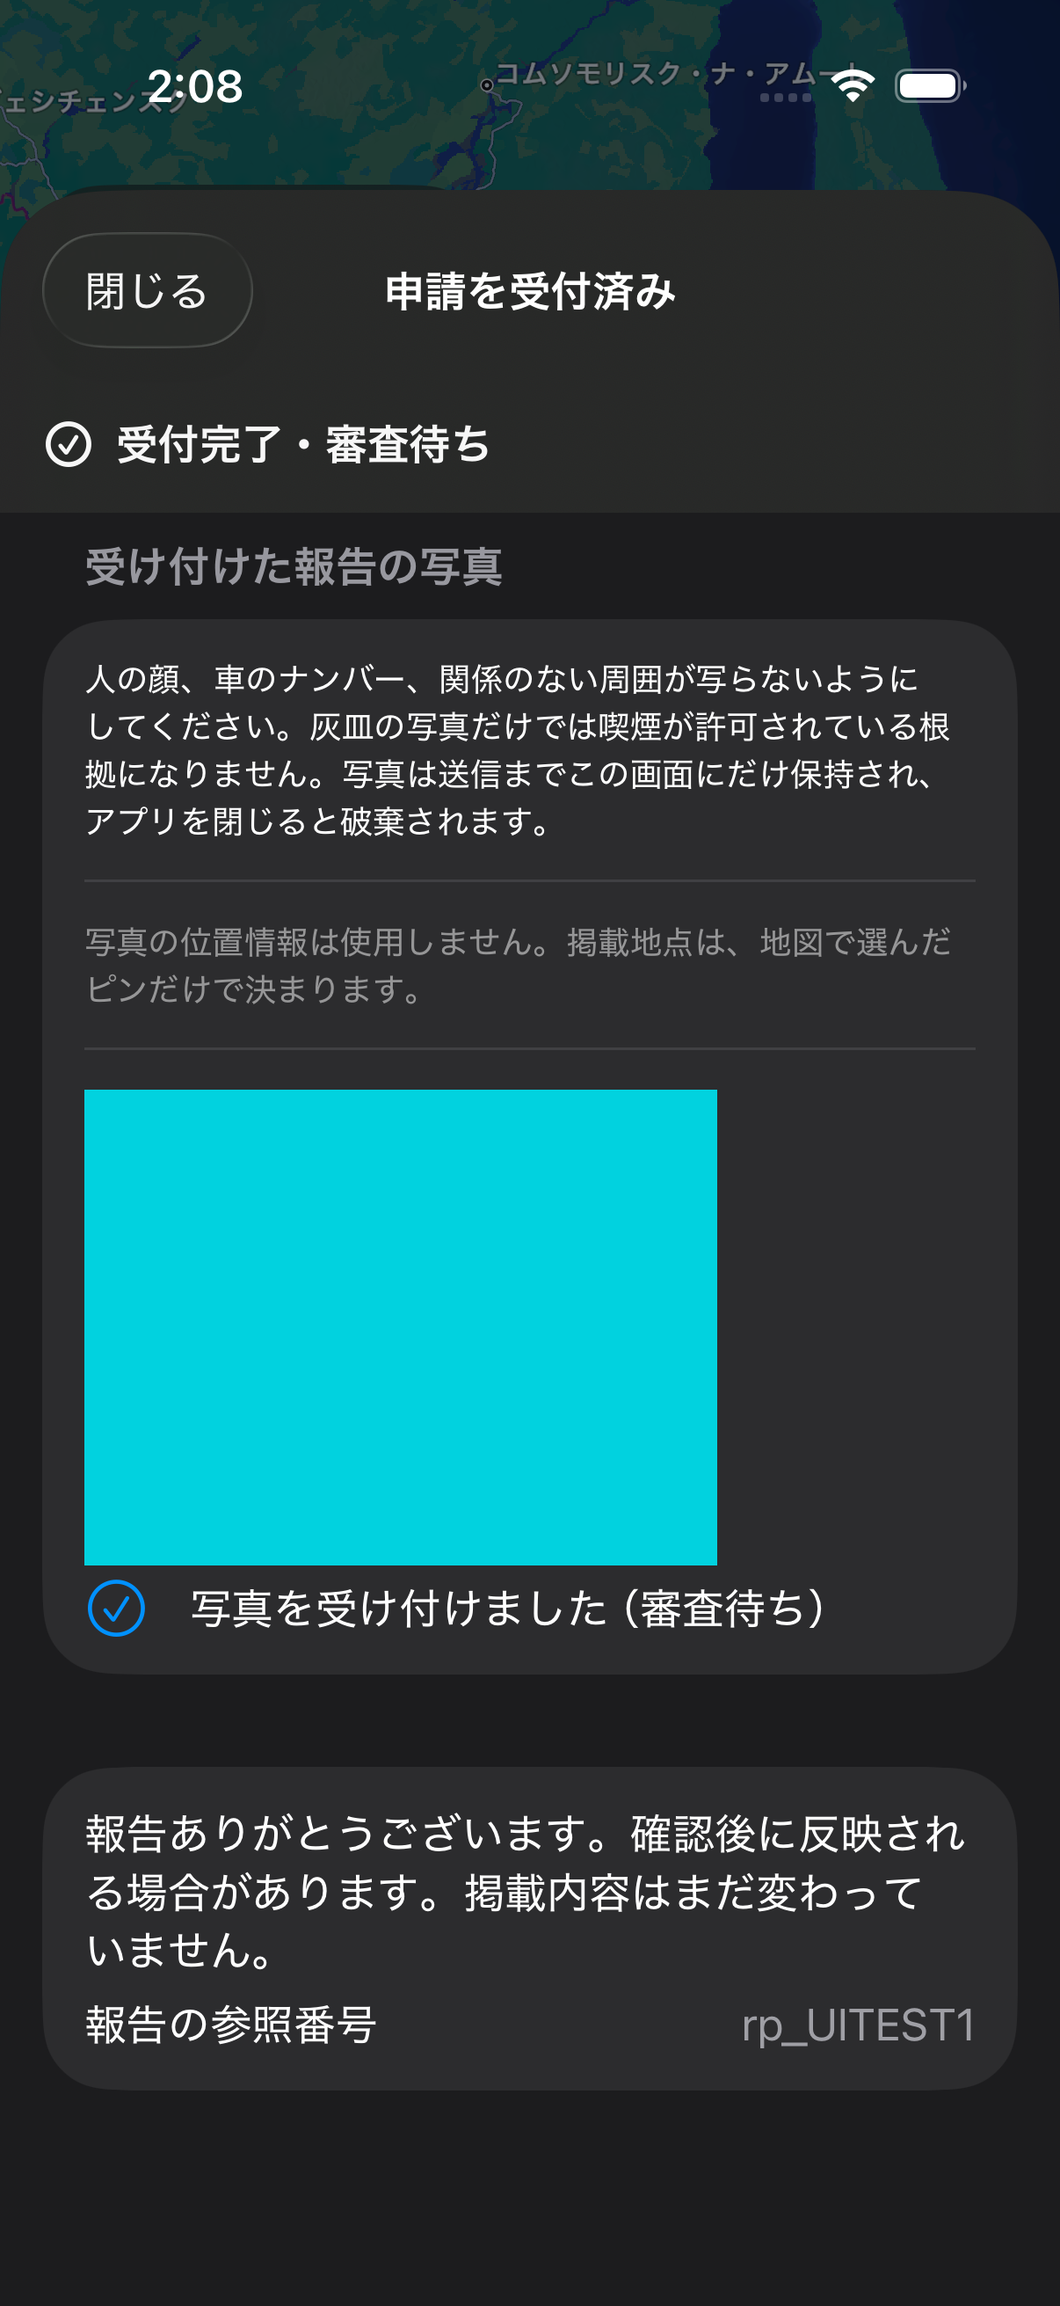
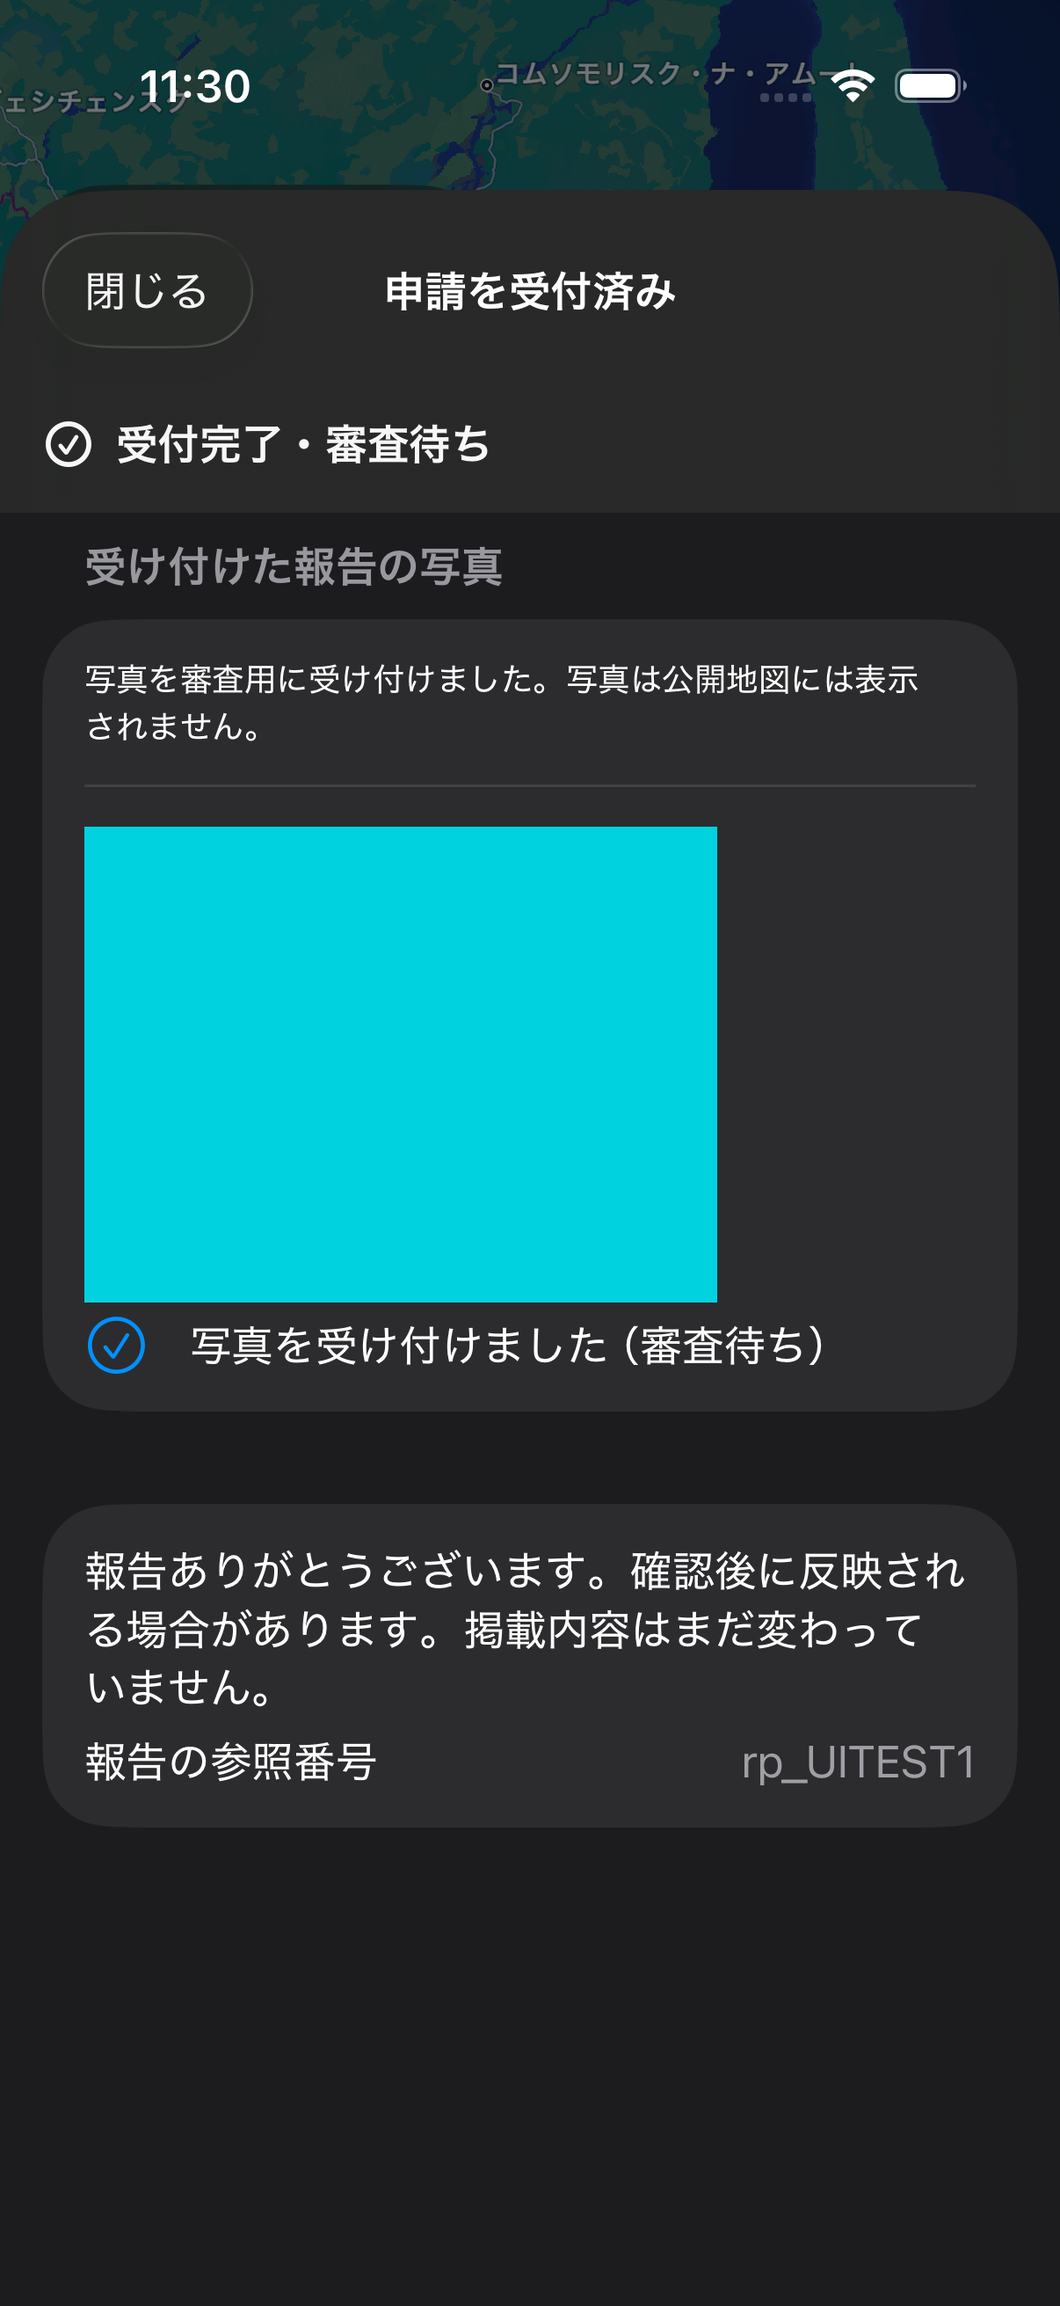
fix(apple): keep report retry and input reachable at large text sizes

diff --git a/apps/apple/MannerPath/MannerPath/Features/Reports/ReportFormView.swift b/apps/apple/MannerPath/MannerPath/Features/Reports/ReportFormView.swift
@@ -3,6 +3,7 @@ import SwiftUI
 
 struct ReportFormView: View {
     @Environment(\.dismiss) private var dismiss
+    @Environment(\.dynamicTypeSize) private var dynamicTypeSize
     @Bindable var model: ReportModel
     let visualCenter: SpotCoordinate?
     /// Places already on the map near the user, for "is it one of these?" before adding a new one (ADR-0013).
@@ -18,6 +19,7 @@ struct ReportFormView: View {
     @State private var followUpChoiceMade = false
     @State private var confirmingNewReport = false
     @State private var confirmingDiscard = false
+    @FocusState private var additionalDetailFocused: Bool
 
     private var isMissing: Bool { model.draft?.type == .missing }
 
@@ -175,6 +177,7 @@ struct ReportFormView: View {
                             set: { value in editDraft { $0.note = value.isEmpty ? nil : value } }
                         ))
                         .disabled(!model.canEditDraft)
+                        .focused($additionalDetailFocused)
                         .frame(minHeight: 100)
                         .accessibilityLabel("Additional report detail")
                         if case .available(let limits) = model.availability {
@@ -217,6 +220,7 @@ struct ReportFormView: View {
                     }
 
                     Section {
+                        if usesScrollableRetryNotice { ambiguousNotice }
                         if case .available = model.availability {
                             if let message = model.submissionReadinessMessage, !isAmbiguous {
                                 Label(message, systemImage: "info.circle")
@@ -224,13 +228,15 @@ struct ReportFormView: View {
                                     .accessibilityElement(children: .combine)
                                     .accessibilityIdentifier("report.readiness")
                             }
-                            TimelineView(.periodic(from: .now, by: 1)) { _ in
-                                Button("Submit for review") { Task { await model.submit() } }
-                                    .disabled(isSubmitting || isAccepted || isAmbiguous || model.isTerminalReceipt || !termsAccepted ||
-                                              newSpotNeedsPhotos || model.submissionReadinessMessage != nil ||
-                                              (model.retryAfterSecondsRemaining ?? 0) > 0)
-                                    .frame(minHeight: 44)
-                                    .accessibilityIdentifier("report.submit")
+                            if !usesScrollableRetryNotice {
+                                TimelineView(.periodic(from: .now, by: 1)) { _ in
+                                    Button("Submit for review") { Task { await model.submit() } }
+                                        .disabled(isSubmitting || isAccepted || isAmbiguous || model.isTerminalReceipt || !termsAccepted ||
+                                                  newSpotNeedsPhotos || model.submissionReadinessMessage != nil ||
+                                                  (model.retryAfterSecondsRemaining ?? 0) > 0)
+                                        .frame(minHeight: 44)
+                                        .accessibilityIdentifier("report.submit")
+                                }
                             }
                             if isAmbiguous && model.ambiguousRetryNeedsPhotos {
                                 Text("Photos are not kept on this device. Choose the photos again to retry this saved submission.")
@@ -304,26 +310,10 @@ struct ReportFormView: View {
                         .frame(maxWidth: .infinity, alignment: .leading)
                         .padding()
                         .background(.bar)
-                } else if isAmbiguous {
-                    VStack(alignment: .leading, spacing: 8) {
-                        Label("Delivery could not be confirmed. Review the saved submission. It has not been retried automatically.",
-                              systemImage: "exclamationmark.triangle")
-                            .font(.footnote)
-                            .accessibilityElement(children: .combine)
-                        if case .available = model.availability, model.canRetryAmbiguous {
-                            Button {
-                                confirmingRetry = true
-                            } label: {
-                                Text(model.usesIdempotentRetry ? String(localized: "Retry saved submission") : String(localized: "Submit again despite possible duplicate"))
-                                    .frame(minHeight: 44)
-                            }
-                            .buttonStyle(.bordered)
-                            .accessibilityIdentifier("report.retrySaved")
-                        }
-                    }
-                    .frame(maxWidth: .infinity, alignment: .leading)
-                    .padding()
-                    .background(.bar)
+                } else if isAmbiguous && !usesScrollableRetryNotice {
+                    ambiguousNotice
+                        .padding()
+                        .background(.bar)
                 }
             }
             .scrollDismissesKeyboard(.interactively)
@@ -331,6 +321,14 @@ struct ReportFormView: View {
             .navigationTitle(isAccepted ? "Report received" : isMissing ? "Add a place" : "Report place information")
             .navigationBarTitleDisplayMode(.inline)
             .toolbar {
+                ToolbarItemGroup(placement: .keyboard) {
+                    if additionalDetailFocused {
+                        Spacer()
+                        Button("Done") { additionalDetailFocused = false }
+                            .accessibilityLabel("Finish editing additional detail")
+                            .accessibilityIdentifier("report.note.done")
+                    }
+                }
                 ToolbarItem(placement: .topBarLeading) {
                     Button("Close") { dismiss() }.disabled(model.photos.enabled && model.isBusy)
                 }
@@ -456,6 +454,30 @@ struct ReportFormView: View {
         return false
     }
 
+    private var usesScrollableRetryNotice: Bool { isAmbiguous && dynamicTypeSize.isAccessibilitySize }
+
+    // At accessibility sizes this panel belongs to the Form: a fixed multiline notice otherwise leaves very
+    // little room for reviewing the saved inputs. The retry still uses the same model gate and confirmation.
+    private var ambiguousNotice: some View {
+        VStack(alignment: .leading, spacing: 8) {
+            Label("Delivery could not be confirmed. Review the saved submission. It has not been retried automatically.",
+                  systemImage: "exclamationmark.triangle")
+                .font(.footnote)
+                .accessibilityElement(children: .combine)
+            if case .available = model.availability, model.canRetryAmbiguous {
+                Button {
+                    confirmingRetry = true
+                } label: {
+                    Text(model.usesIdempotentRetry ? String(localized: "Retry saved submission") : String(localized: "Submit again despite possible duplicate"))
+                        .frame(minHeight: 44)
+                }
+                .buttonStyle(.bordered)
+                .accessibilityIdentifier("report.retrySaved")
+            }
+        }
+        .frame(maxWidth: .infinity, alignment: .leading)
+    }
+
     @ViewBuilder
     private var status: some View {
         switch model.submission {
@@ -576,7 +598,6 @@ private struct ReportPinPicker: View {
                 VStack(spacing: 12) {
                     Text("Tap the proposed place on the map, or move the map and use its center. Confirm the selected pin before returning.")
                         .font(.footnote)
-                        .padding(.horizontal)
                     MapReader { proxy in
                         Map(position: $position) {
                             // The provisional pin being proposed: a standard MapKit marker in MannerPath Yellow (the one
@@ -603,7 +624,6 @@ private struct ReportPinPicker: View {
                         .accessibilityHint("Move the map, then use the map center button. Coordinate controls are available after selection.")
                     }
                     .frame(height: 280)
-                    .padding(.horizontal, 16)
                     Button {
                         if let cameraCenter { candidate = cameraCenter.quantized }
                     } label: {
@@ -633,6 +653,7 @@ private struct ReportPinPicker: View {
                             .foregroundStyle(.secondary)
                     }
                 }
+                .padding(.horizontal, 16)
                 .padding(.bottom)
             }
             .navigationTitle("Choose proposed pin")

diff --git a/apps/apple/MannerPath/MannerPathUITests/ReportSubmissionUXUITests.swift b/apps/apple/MannerPath/MannerPathUITests/ReportSubmissionUXUITests.swift
@@ -41,6 +41,9 @@ final class J_ReportSubmissionUXUITests: MannerPathUITestCase {
         let confirm = app.buttons["report.pin.confirm"]
         scrollTo(confirm)
         settle(confirm)
+        if app.launchArguments.contains("UICTContentSizeCategoryAccessibilityXXXL") {
+            screenshot("report-ux-19-pin-large-text-fixture")
+        }
         confirm.tap()
         XCTAssertTrue(app.navigationBars["提案するピンを選ぶ"].waitForNonExistence(timeout: 10))
     }
@@ -53,6 +56,8 @@ final class J_ReportSubmissionUXUITests: MannerPathUITestCase {
         let agree = app.switches["報告に関する規約に同意する"]
         scrollTo(agree)
         let control = agree.switches.firstMatch.exists ? agree.switches.firstMatch : agree
+        // At accessibility sizes iOS 18 can expose the row before its nested switch is on screen.
+        scrollTo(control)
         settle(control)
         control.tap()
         let on = XCTNSPredicateExpectation(predicate: NSPredicate(format: "value == '1'"), object: agree)
@@ -80,6 +85,10 @@ final class J_ReportSubmissionUXUITests: MannerPathUITestCase {
         scrollTo(pending)
         XCTAssertFalse(pending.label.isEmpty)
         XCTAssertFalse(submit.exists, "The accepted report must not be offered for submission again")
+        let photoReceipt = app.descendants(matching: .any)["report.photo.receivedSummary"]
+        scrollTo(photoReceipt)
+        XCTAssertFalse(app.descendants(matching: .any)["report.photo.preparationNotice"].exists,
+                       "Already received photos use the receipt explanation, not preparation instructions")
         screenshot("report-ux-04-pending-review-fixture")
     }
 
@@ -154,6 +163,102 @@ final class J_ReportSubmissionUXUITests: MannerPathUITestCase {
         XCTAssertFalse(textContaining("rp_UITEST2").exists)
         XCTAssertFalse(submit.exists)
         screenshot("report-ux-09-retry-received-fixture")
+    }
+
+    // Audits accessible names and roles; this does not replace listening to VoiceOver or testing its gestures.
+    func testReportFormAccessibilityNamesAndTraits() throws {
+        launch(extraArguments: ["-uiTestPhotoReport", "success"])
+        openEntry()
+        try app.performAccessibilityAudit(for: [.sufficientElementDescription, .trait])
+        pinButton.tap()
+        let center = app.buttons["report.pin.useCenter"]
+        XCTAssertTrue(center.waitForExistence(timeout: 10))
+        settle(center)
+        center.tap()
+        let confirm = app.buttons["report.pin.confirm"]
+        scrollTo(confirm)
+        settle(confirm)
+        try app.performAccessibilityAudit(for: [.sufficientElementDescription, .trait])
+        confirm.tap()
+        XCTAssertTrue(app.navigationBars["提案するピンを選ぶ"].waitForNonExistence(timeout: 10))
+        addPhotoAndAgree()
+        scrollTo(submit)
+        try app.performAccessibilityAudit(for: [.sufficientElementDescription, .trait])
+        settle(submit)
+        submit.tap()
+        let pending = app.descendants(matching: .any)["report.pendingReview"]
+        XCTAssertTrue(pending.waitForExistence(timeout: 15))
+        let photoReceipt = app.descendants(matching: .any)["report.photo.receivedSummary"]
+        scrollTo(photoReceipt)
+        try app.performAccessibilityAudit(for: [.sufficientElementDescription, .trait])
+    }
+
+    // A partially exposed row can be hittable on iOS 18 while its center lies below the viewport.
+    private func fullyRevealInFrontmostForm(_ control: XCUIElement) {
+        let form = app.collectionViews.element(boundBy: app.collectionViews.count - 1)
+        var drags = 0
+        while (!control.exists || !form.frame.contains(control.frame)) && drags < 10 {
+            let start = form.coordinate(withNormalizedOffset: CGVector(dx: 0.02, dy: 0.8))
+            start.press(forDuration: 0.05, thenDragTo: form.coordinate(withNormalizedOffset: CGVector(dx: 0.02, dy: 0.3)))
+            drags += 1
+        }
+        XCTAssertTrue(control.exists && form.frame.contains(control.frame), "Control must be fully visible before tapping")
+    }
+
+    func testLargestTextKeepsUnconfirmedSubmissionAndRetryReachable() {
+        launch(extraArguments: ["-uiTestPhotoReport", "reportRetry",
+                                "-UIPreferredContentSizeCategoryName", "UICTContentSizeCategoryAccessibilityXXXL"])
+        openEntry()
+        choosePin()
+        addPhotoAndAgree()
+        let note = app.textViews.firstMatch
+        scrollTo(note, upwards: true)
+        settle(note)
+        note.tap()
+        note.typeText("Saved before retry")
+        let done = app.buttons["report.note.done"]
+        XCTAssertTrue(done.waitForExistence(timeout: 5))
+        settle(done)
+        screenshot("report-ux-20-note-done-fixture")
+        done.tap()
+        XCTAssertTrue(app.keyboards.firstMatch.waitForNonExistence(timeout: 5))
+        scrollTo(submit)
+        fullyRevealInFrontmostForm(submit)
+        settle(submit)
+        submit.tap()
+        let retry = app.buttons["report.retrySaved"]
+        XCTAssertTrue(submit.waitForNonExistence(timeout: 15), "Unconfirmed delivery uses its dedicated retry instead")
+        scrollTo(retry)
+        fullyRevealInFrontmostForm(retry)
+        settle(retry)
+        XCTAssertFalse(retry.label.isEmpty)
+        XCTAssertGreaterThanOrEqual(retry.frame.height, 44)
+        screenshot("report-ux-17-large-text-unconfirmed-fixture")
+        // Frozen inputs are reviewed, not edited: require a visible value, not an enabled/hittable editor.
+        // iOS 18 also exposes the underlying search sheet; the presented Form is frontmost.
+        XCTAssertGreaterThan(app.collectionViews.count, 0)
+        let form = app.collectionViews.element(boundBy: app.collectionViews.count - 1)
+        XCTAssertTrue(form.buttons["report.retrySaved"].exists)
+        let savedNote = app.textViews.firstMatch
+        var reviewDrags = 0
+        while (!savedNote.exists || savedNote.frame.intersection(form.frame).height < 44) && reviewDrags < 10 {
+            form.swipeDown()
+            reviewDrags += 1
+        }
+        XCTAssertTrue(savedNote.exists)
+        XCTAssertGreaterThanOrEqual(savedNote.frame.intersection(form.frame).height, 44)
+        XCTAssertTrue((savedNote.value as? String)?.contains("Saved before retry") == true)
+        scrollTo(retry)
+        fullyRevealInFrontmostForm(retry)
+        settle(retry)
+        retry.tap()
+        let confirm = app.buttons["report.retrySaved.confirm"].firstMatch
+        XCTAssertTrue(confirm.waitForExistence(timeout: 5))
+        confirm.tap()
+        let pending = app.descendants(matching: .any)["report.pendingReview"]
+        XCTAssertTrue(pending.waitForExistence(timeout: 15))
+        XCTAssertFalse(submit.exists)
+        screenshot("report-ux-18-large-text-received-fixture")
     }
 
     func testPausedIntakeDoesNotAdvertiseAddingAPlace() {

diff --git a/apps/apple/MannerPath/MannerPath/Features/Reports/ReportPhotos.swift b/apps/apple/MannerPath/MannerPath/Features/Reports/ReportPhotos.swift
@@ -254,13 +254,22 @@ struct ReportPhotoSection: View {
     /// A new-place proposal needs at least one photo; other reports keep photos optional.
     var required = false
     @State private var selection: [PhotosPickerItem] = []
+    private var offersPhotoSelection: Bool { photos.acceptsNewPhotos && photos.remainingSlots > 0 }
+
     var body: some View {
         Section {
-            Text("Avoid faces, vehicle plates and unrelated surroundings. A photo of an ashtray does not establish permission to smoke. Photos stay on this screen until submission; closing the app discards them.")
-                .font(.footnote)
-            Text("The photo's location data is not used. The listed position is only the map pin you chose.")
-                .font(.footnote).foregroundStyle(.secondary)
-            if photos.acceptsNewPhotos && photos.remainingSlots > 0 {
+            if photos.acceptedReportID != nil && photos.allUploaded && !offersPhotoSelection {
+                Text("Photos were received for private review. Photos are not displayed on the public map.")
+                    .font(.footnote)
+                    .accessibilityIdentifier("report.photo.receivedSummary")
+            } else {
+                Text("Avoid faces, vehicle plates and unrelated surroundings. A photo of an ashtray does not establish permission to smoke. Photos stay on this screen until submission; closing the app discards them.")
+                    .font(.footnote)
+                    .accessibilityIdentifier("report.photo.preparationNotice")
+                Text("The photo's location data is not used. The listed position is only the map pin you chose.")
+                    .font(.footnote).foregroundStyle(.secondary)
+            }
+            if offersPhotoSelection {
                 // Read outside the picker's Sendable label closure.
                 let title = photos.photos.isEmpty ? String(localized: "Choose photos (up to 3)") : String(localized: "Add another photo")
                 PhotosPicker(selection: $selection, maxSelectionCount: photos.remainingSlots,

diff --git a/apps/apple/MannerPath/MannerPathUITests/PhotoReportFlowUITests.swift b/apps/apple/MannerPath/MannerPathUITests/PhotoReportFlowUITests.swift
@@ -269,6 +269,10 @@ final class I_PhotoReportFlowUITests: MannerPathUITestCase {
         XCTAssertTrue(text("写真を受け付けました（審査待ち）").waitForExistence(timeout: 20))
         XCTAssertFalse(textContaining("rp_UITEST2").exists, "resending photos never creates a second report")
         XCTAssertFalse(app.buttons["report.submit"].exists, "the report itself is not offered for resubmission")
+        scrollTo(app.buttons["report.photo.choose"], upwards: true)
+        XCTAssertTrue(app.descendants(matching: .any)["report.photo.preparationNotice"].exists,
+                      "Resumed uploads retain the privacy reminder while more photos can still be selected")
+        XCTAssertFalse(app.descendants(matching: .any)["report.photo.receivedSummary"].exists)
         screenshot("72-photo-resume-sent")
     }
 
